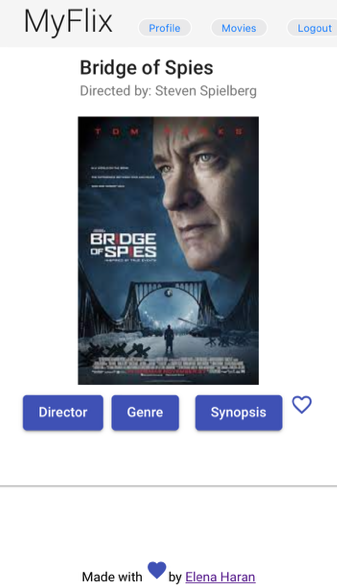
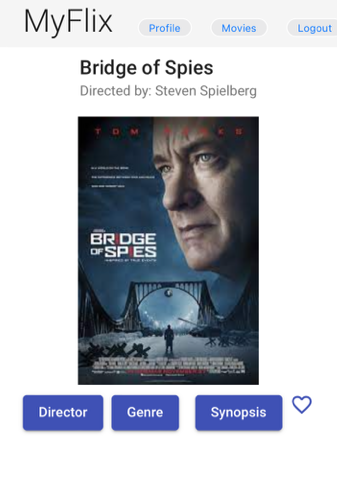
changed colours, added typing

diff --git a/html/work.html b/html/work.html
@@ -16,7 +16,7 @@
 <!--Header including the main navigation menu-->
 <header class="page-header">
   <!--Navigation menu here-->
-  <nav class="navbar page-header navbar-expand-lg sticky-top" style="background-color: #e3f2fd; position: sticky;
+  <nav class="navbar page-header navbar-expand-lg sticky-top" style="background-color: #2A3132; position: sticky;
   z-index: 999; margin-top: 0;">
   <!--<nav class="main-navigation page-header__item">-->
     <ul role="menubar" class="navigation-list">
@@ -52,7 +52,8 @@
         </div>
         <p class="grid-item__p">This is a single-page, responsive movie app built with Angular, 
           routing and several interface views. The app is accompanied by relevant documentation generated with TypeDoc.
-          <ul> <u>Technologies:</u>
+          <h3>Technologies:<br></h3>
+          <ul class="ul-technology"> 
             <li>Angular (v13.0.3)</li>
             <li>Angular Material</li>
             <li>Node.js (v16.13.0) and npm (v8.1.0)</li>
@@ -72,7 +73,8 @@
         </div>
         <p class="grid-item__p">This is a server-side component of myFlix movies web application. The application will 
           provide users with access to information about different movies, directors, and genres.
-          <ul> <u>Technologies:</u>
+          <h3>Technologies:<br></h3>
+          <ul class="ul-technology">
             <li>MongoDB</li>
             <li>Express</li>
             <li>React</li>
@@ -95,7 +97,8 @@
         <p class="grid-item__p">This is a single-page, responsive application with routing and 
           several interface views, where movie enthusiasts can access information
           about different movies, directors and genres.
-          <ul> <u>Technologies:</u>
+          <h3>Technologies:<br></h3>
+          <ul class="ul-technology">
             <li>React</li>
             <li>Bootstrap</li>
             <li>React Redux</li>
@@ -117,7 +120,8 @@
         </div>
         <p class="grid-item__p">This is a mobile chat app for mobile devices built with React Native. 
           This app will provide users with a chat interface and options to share images and their location.
-          <ul> <u>Technologies:</u>
+          <h3>Technologies:<br></h3>
+          <ul class="ul-technology">
             <li>React Native</li>
             <li>Expo</li>
             <li>Android Studio</li>
@@ -139,7 +143,8 @@
         <p class="grid-item__p">This is a serverless, progressive web application (PWA) with React 
           using test-driven development (TDD) technique. 
           The application uses Google Calendar API to fetch upcoming events.
-          <ul> <u>Technologies:</u>
+          <h3>Technologies:<br></h3>
+          <ul class="ul-technology">
             <li>React</li>
             <li>TDD technique</li>
             <li>Serverless functions (AWS lambda)</li>
@@ -159,7 +164,8 @@
         <p class="grid-item__p">This is a small web application with HTML, 
               CSS and JavaScript that loads data from an external API and enables the viewing of data points in detail.
               It displays a list of Pokemon, and the user should be able to view more details about each Pokemon after clicking on a particular Pokemon character.
-              <ul> <u>Technologies:</u>
+              <h3>Technologies:<br></h3>
+              <ul class="ul-technology">
                 <li>HTML</li>
                 <li>CSS</li>
                 <li>JavaScript</li>

diff --git a/index.html b/index.html
@@ -12,12 +12,14 @@
   <link href='fonts.googleapis.com/css?family=Lato:400,700' rel='stylesheet' type='text/css'>
   <link rel="stylesheet" type="text/css" href="./css/style.production.css">
   <meta name="viewport" content="width=device-width, initial-scale=1.0">
+  <script src="https://cdnjs.cloudflare.com/ajax/libs/typed.js/2.0.12/typed.min.js"></script>
 </head>
 <body>
   <header class="page-header">
     <!--Navigation menu here-->
-    <nav class="navbar page-header navbar-expand-lg sticky-top" style="background-color: #e3f2fd; position: sticky;
+    <nav class="navbar page-header navbar-expand-lg sticky-top" style="background-color: #2A3132; position: sticky;
     z-index: 999; margin-top: 0;">
+    
     <!--<nav class="main-navigation page-header__item">-->
       <ul role="menubar" class="navigation-list">
         <li role="presentation">
@@ -43,7 +45,7 @@
         </div>
         <div class="about-grid__item">
           <article class="main-content__article">
-            Hi, I’m Elena, and I am a <b>full-stack web developer</b> with a background in teaching languages. 
+            Hi, my name is Elena Haran, and I am a <span class="text-3 typing"></span> web developer.<br>I have a background in teaching foreign languages. 
             I was always drawn to technology when teaching because I always wanted to create an interactive and 
             engaging experience for my students. When I used various language learning platforms, 
             I would always ask myself what I would do differently as a web developer and what features
@@ -74,11 +76,13 @@
   </footer>
   
 <!--<script src="tota11y.min.js"></script>-->
+
 <script src="https://code.jquery.com/jquery-3.3.1.slim.min.js" 
 integrity="sha384-q8i/X+965DzO0rT7abK41JStQIAqVgRVzpbzo5smXKp4YfRvH+8abtTE1Pi6jizo" crossorigin="anonymous"></script>
 <script src="https://cdnjs.cloudflare.com/ajax/libs/popper.js/1.14.7/umd/popper.min.js" 
 integrity="sha384-UO2eT0CpHqdSJQ6hJty5KVphtPhzWj9WO1clHTMGa3JDZwrnQq4sF86dIHNDz0W1" crossorigin="anonymous"></script>
 <script src="https://stackpath.bootstrapcdn.com/bootstrap/4.3.1/js/bootstrap.min.js" 
 integrity="sha384-JjSmVgyd0p3pXB1rRibZUAYoIIy6OrQ6VrjIEaFf/nJGzIxFDsf4x0xIM+B07jRM" crossorigin="anonymous"></script>
+<script src="scripts.js"></script>
 </body>
 </html>

diff --git a/css/style.production.css b/css/style.production.css
@@ -50,6 +50,11 @@ h5 {
   font-size: 22px;
 }
 
+h3 {
+  font-size: 20px;
+  text-transform: uppercase;
+}
+
 p {
   display: flex;
   justify-content: center;
@@ -116,7 +121,7 @@ p {
 }
 
 a {
-  color: #2d4262;
+  color: #fff;
   font-size: 18px;
 }
 
@@ -178,7 +183,7 @@ a:active {
   border: none;
   display: inline-block;
   font-family: inherit;
-  background-color: #68829e;
+  background-color: #336b87;
   color: white;
   text-decoration: none;
   padding: 10px;
@@ -320,7 +325,7 @@ input {
 }
 
 .card-img-top {
-  width: 80%;
+  width: 40%;
   height: 40%;
   padding-top: 5px;
 }
@@ -339,7 +344,7 @@ input {
 .project-grid__item {
   padding: 40px;
   margin: 40px;
-  background-color: #68829e;
+  background-color: #336b87;
   color: #ffffff;
   border-radius: 5px;
   border: 1px solid;
@@ -349,8 +354,13 @@ ul {
   font-size: 20px;
   text-align: center;
   padding-bottom: 5px;
-  line-height: 200%;
+  line-height: 150%;
   padding-top: 20px;
+
+}
+
+.ul-technology {
+  columns: 2;
 }
 
 li {
@@ -549,6 +559,12 @@ form {
 
   u {
     font-size: 16px;
+  }
+
+  span {
+    
+    font-weight: 900;
+    
   }
 
 /* @media all and (min-width: 500px) and (max-width: 750px) {

diff --git a/html/contact_Elena_Haran.html b/html/contact_Elena_Haran.html
@@ -15,7 +15,7 @@
 <body>
   <header class="page-header">
     <!--Navigation menu is here-->
-    <nav class="navbar page-header navbar-expand-lg sticky-top" style="background-color: #e3f2fd; position: sticky;
+    <nav class="navbar page-header navbar-expand-lg sticky-top" style="background-color: #2A3132; position: sticky;
     z-index: 999; margin-top: 0;">
     <!--<nav class="main-navigation page-header__item">-->
       <ul role="menubar" class="navigation-list">
@@ -37,7 +37,7 @@
     
         
         Skype: live:elenaharan<br>
-        <a href="mailto:elenaharan@gmail.com">Email: elenaharan@gmail.com</a><br>                       
+        <a href="mailto:elenaharan@gmail.com" style="color: #000;">Email: elenaharan@gmail.com</a><br>                       
 
     <footer class="page-footer footer-contact" style="padding-top: 80px;">
       <p class="page-footer__text">Find me on</p>

diff --git a/scripts.js b/scripts.js
@@ -1,0 +1,7 @@
+var typed = new Typed(".typing", {
+    strings: ["front-end", "back-end", "full-stack"],
+    typeSpeed: 150,
+    backspeed: 80,
+    loop: true,
+    pause: 20 
+});
